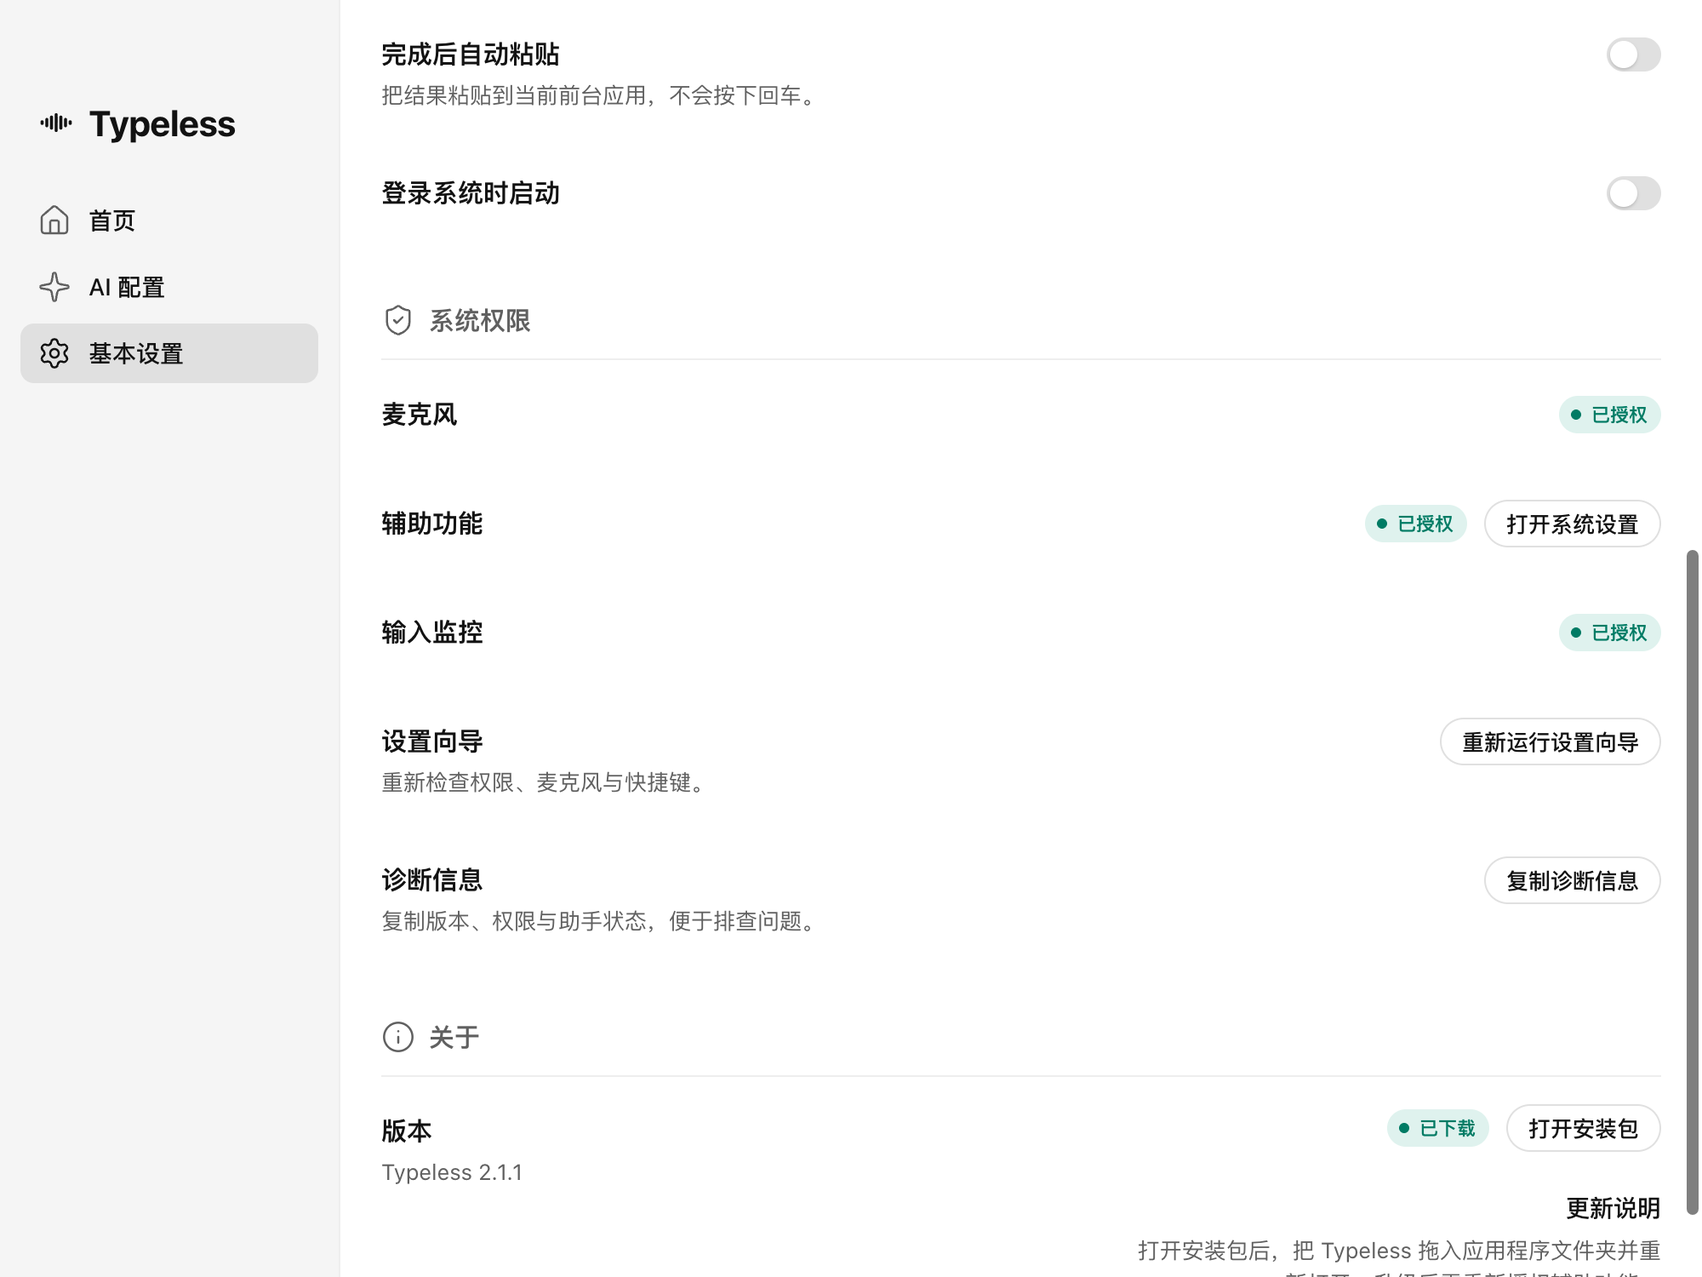
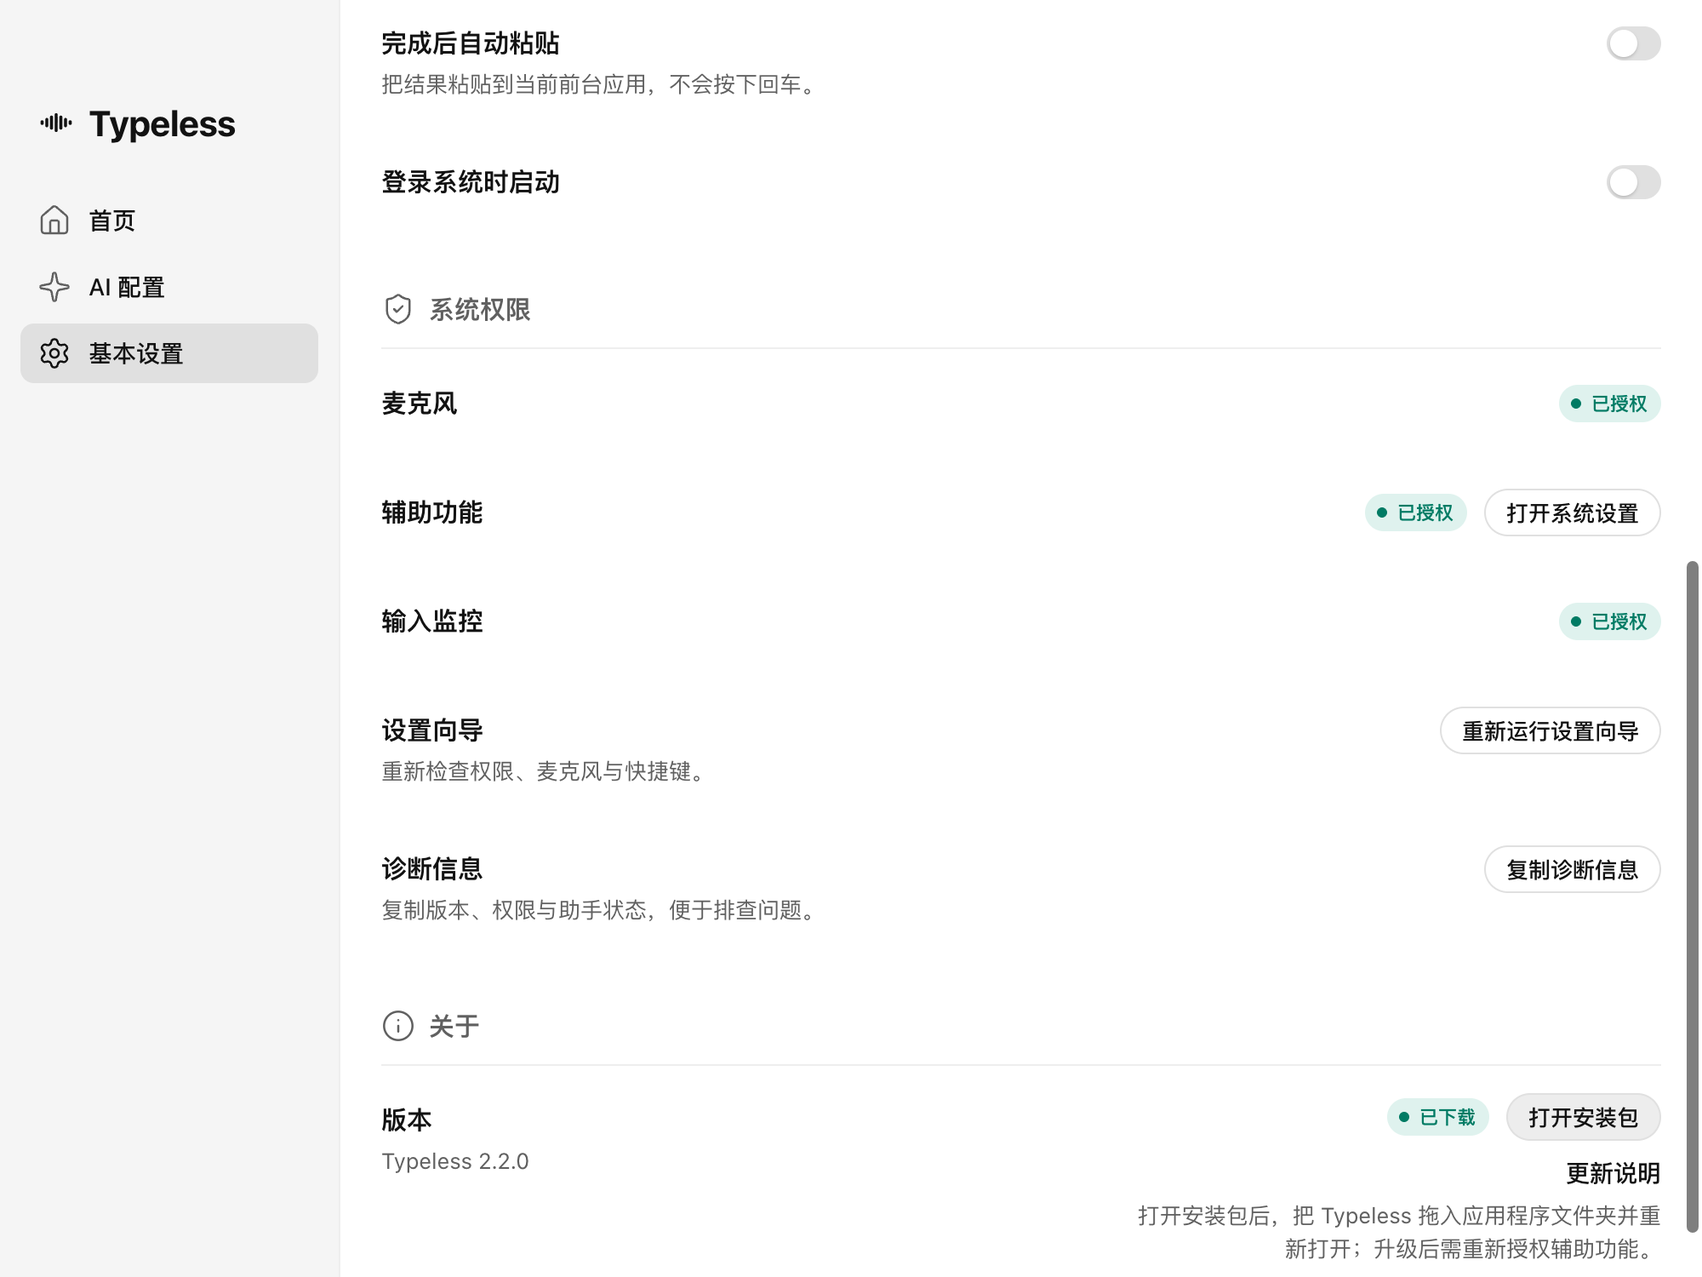
Keep the 关于 row notes under the controls; record the live release check; release 2.2.1
- Force the 更新说明 link and the install hint onto their own line
  under the status badge and button, as UI design 13.5 specifies;
  a short note had been rendering beside the button
- Verify the release check against the real GitHub endpoint after the
  repository became public: the packaged 2.2.0 build reported 已是最新
  automatically and on demand, and the 2.2.0 DMG download matched the
  published digest and the release file
- Use a generic checkout path in the README and VALIDATION reproduce
  steps; refresh the 基本设置 screenshot, which still showed 2.1.1
- Record the 2.2.1 verification: 109 unit tests, 39 desktop e2e checks
  and 5 delivery scenarios in development and from the mounted DMG

diff --git a/src/renderer/styles/preferences.css b/src/renderer/styles/preferences.css
@@ -18,7 +18,9 @@
 .setting-row .pref-hint { max-width: 620px; color: var(--text-secondary); }
 
 /* 关于 row: badge and button inline, notes below. */
-.setting-row.about-row .about-notes { display: flex; flex-direction: column; align-items: flex-end; gap: 6px; margin-top: 6px; }
+/* The notes always sit on their own line under the badge and button, never beside them. */
+.setting-row.about-row .row-status { flex-basis: 100%; margin-top: 0; }
+.setting-row.about-row .about-notes { display: flex; flex-direction: column; align-items: flex-end; gap: 6px; }
 .setting-row.about-row .about-notes .pref-hint { text-align: right; max-width: 420px; }
 
 /* Mirrors the setting-row stacking breakpoint in base.css. */
@@ -26,5 +28,7 @@
   .setting-row .pref-status { align-items: flex-start; }
   .setting-row .pref-shortcut-status { justify-content: flex-start; }
   .setting-row.pref-switch-row .row-control.inline { justify-content: flex-start; }
+  .setting-row.about-row .about-notes { align-items: flex-start; }
+  .setting-row.about-row .about-notes .pref-hint { text-align: left; }
   .setting-row.pref-switch-row .row-status { text-align: left; }
 }

diff --git a/docs/VALIDATION.md b/docs/VALIDATION.md
@@ -1,6 +1,6 @@
-# Version 2.2.0 Validation
+# Version 2.2.1 Validation
 
-Reviewed on 2026-09-18 for 2.0.0 and revised on 2026-09-22 for the 2.1.1 packages (setup guide, stale-grant guidance) and again the same day for the 2.2.0 packages (white simplified interface, three destinations, release check). The 2.0.0 evidence in this section is kept for the dictation behaviour it qualifies; the interface it photographed has since been simplified as recorded in the 2.2.0 section below. This record covers the dictation product with the redesigned interface: the two-column shell specified in [UI design](UI_DESIGN.md) (**首页**, **AI 配置**, **基本设置**, **表达风格**), grouped setting rows, and the black voice capsule. Recording, ASR, optional polishing, retained clipboard output and optional paste into the current foreground application are unchanged from 0.1.5. Historical receipts for earlier versions remain in Git and do not qualify this version.
+Reviewed on 2026-09-18 for 2.0.0 and revised on 2026-09-22 for the 2.1.1 packages (setup guide, stale-grant guidance) and again the same day for the 2.2.0 packages (white simplified interface, three destinations, release check) and the 2.2.1 packages (关于 row note placement, live release check). The 2.0.0 evidence in this section is kept for the dictation behaviour it qualifies; the interface it photographed has since been simplified as recorded in the 2.2.0 section below. This record covers the dictation product with the redesigned interface: the two-column shell specified in [UI design](UI_DESIGN.md) (**首页**, **AI 配置**, **基本设置**, **表达风格**), grouped setting rows, and the black voice capsule. Recording, ASR, optional polishing, retained clipboard output and optional paste into the current foreground application are unchanged from 0.1.5. Historical receipts for earlier versions remain in Git and do not qualify this version.
 
 ## Current evidence
 
@@ -16,7 +16,7 @@ Reviewed on 2026-09-18 for 2.0.0 and revised on 2026-09-22 for the 2.1.1 package
 | Visual inspection | Screenshots below come from the passing development runs at 1000 × 750 and were compared against the official Typeless 2.0 assets catalogued in `docs/research/ui-official-*.md`. |
 | Final packages | Both 2.0.0 packages built and passed integrity checks; the mounted macOS runtime passed as recorded above; Windows runtime remains untested. |
 
-Current screenshots (fake audio and mock providers, refreshed from the 2.2.0 development run): [首页](screenshots/home.png), [首页 with result](screenshots/dictation-result.png), [原文 view](screenshots/dictation-original.png), [recovery alert](screenshots/dictation-recovery.png), [AI 配置](screenshots/settings-ai.png), [AI 配置 in the 不润色 state](screenshots/settings-ai-writing-none.png), [基本设置 with the 关于 row](screenshots/settings-basic.png), [capsule recording](screenshots/voice-recording.png), [capsule controls](screenshots/voice-recording-controls.png), [capsule processing](screenshots/voice-processing.png), [processing with cancel](screenshots/voice-processing-controls.png), [delivery target](screenshots/delivery-target.png).
+Current screenshots (fake audio and mock providers, refreshed from the 2.2.0 development run; 基本设置 from the 2.2.1 run): [首页](screenshots/home.png), [首页 with result](screenshots/dictation-result.png), [原文 view](screenshots/dictation-original.png), [recovery alert](screenshots/dictation-recovery.png), [AI 配置](screenshots/settings-ai.png), [AI 配置 in the 不润色 state](screenshots/settings-ai-writing-none.png), [基本设置 with the 关于 row](screenshots/settings-basic.png), [capsule recording](screenshots/voice-recording.png), [capsule controls](screenshots/voice-recording-controls.png), [capsule processing](screenshots/voice-processing.png), [processing with cancel](screenshots/voice-processing-controls.png), [delivery target](screenshots/delivery-target.png).
 
 Production keeps completed dictation on the clipboard. Optional native paste sends the platform paste shortcut to the current foreground application; it does not capture an original field or require an editable role. Dispatch is not proof of acceptance by arbitrary applications. No Return/Enter is sent. Tests restore the original clipboard only during ownership-guarded cleanup. Existing preferences and encrypted keys from 0.1.5 remain readable; the settings schema did not change at 2.0.0. The setup-guide change recorded below adds one field, `general.setupCompleted`.
 
@@ -64,22 +64,42 @@ Requested after 2.1.1 shipped and specified in [UI design](UI_DESIGN.md) section
 | Visual review | The lead compared the run's screenshots against section 13: white pages, borders instead of tinted cards, colour only on status badges and the meter, no gradient anywhere in the shell or the guide. |
 | Packaged macOS desktop integration | Application launched from the read-only mounted 2.2.0 DMG: the first attempt failed in the new update stage because the packaged app starts slower and its automatic release check (15 s after launch) had already turned **检查更新** into **下载更新** before the harness clicked it; the stage now triggers the manual check through IPC and asserts on the resulting states, and the rerun passed with **39 checks and 4 mock HTTP requests**, receipt [`.local/desktop-e2e-wUZd0I/result.json`](../.local/desktop-e2e-wUZd0I/result.json). This is the only run in which the automatic check was observed to fire. |
 | Packaged macOS delivery | Same mounted application: **5 scenarios passed**, clipboard restored, receipt [`.local/delivery-e2e-LYg72w/result.json`](../.local/delivery-e2e-LYg72w/result.json). |
+| Real GitHub endpoint (after publication) | Run on 2026-09-22 once Release v2.2.0 was public. While the repository was still private the unauthenticated `releases/latest` call returned 404 and the 关于 row would have shown **检查失败**; the repository was made public and the checks below were repeated. (1) `UpdateChecker` against the live API with the installed version 2.2.0 → `none`; with 2.1.1 as current version → `available` naming `Typeless-2.2.0-arm64.dmg` (darwin/arm64) and `Typeless-2.2.0-win.zip` (win32/x64); the arm64 download followed GitHub's redirect, finished in 20 s, passed the `sha256:` digest GitHub publishes, and the file was byte-identical to `release/Typeless-2.2.0-arm64.dmg` (`hdiutil verify` valid). (2) The packaged 2.2.0 application launched from `release/mac-arm64` with no update URL override: the automatic check reported **已是最新** 19 s after launch, the manual **检查更新** repeated it, and no sidebar pill appeared. Afterwards the 关于 row's notes (更新说明 and the hints) were forced onto their own line under the badge and button, as section 13.5 specifies, because a short note had been rendering beside the button; `npm run test:desktop` on the rebuilt source passed **39 checks with 4 mock HTTP requests**, receipt [`.local/desktop-e2e-7hJCLq/result.json`](../.local/desktop-e2e-7hJCLq/result.json), and its 基本设置 screenshot replaced the earlier one, which still showed 2.1.1. |
 
 ### Limits of this record
 
-- The release check was exercised only against the harness's loopback mock; the real GitHub endpoint, its rate limits, redirects to `objects.githubusercontent.com`, the automatic 15 s / 6 h schedule (packaged builds only) and `shell.openPath` on a real DMG were not observed by any run.
+- The live GitHub run above covered one check and one download from one machine; rate limiting, the 6 h repeat and `shell.openPath` on a real DMG from inside the application were not observed. The published 2.2.0 build does not contain the 关于 row note-placement fix; 2.2.1 does.
 - Only the darwin / arm64 asset rule was exercised end to end; `-x64.dmg` and `-win.zip` selection is unit-tested only.
 - The 关于 row states `downloading` and `error` were rendered only in the unit tests' state transitions, not photographed.
 - Windows runtime remains untested; the Windows install hint in the 关于 row was not shown on a Windows machine.
+
+## Note placement fix and live release check (2.2.1, 2026-09-22)
+
+Requested after the live GitHub verification recorded above. Source changes: `src/renderer/styles/preferences.css` forces the 关于 row notes (更新说明 and the hints) onto their own line under the badge and button, as [UI design](UI_DESIGN.md) section 13.5 specifies; the README build steps use a generic checkout path; the 基本设置 screenshot was refreshed; the version string is 2.2.1. Dictation, providers, settings storage, the setup guide and the release-check logic are unchanged.
+
+| Check | Result and scope |
+| --- | --- |
+| Source and build | `npm run typecheck` clean. `npm run build` completed its native, typecheck, Vite and esbuild steps. `native/bin/typeless-native --self-test` passed (`shortcut-and-paste-policy`). |
+| Automated regressions | `npm test`: **109 tests in 12 files passed** (unchanged from 2.2.0). |
+| Development desktop integration | `npm run test:desktop` on the final source: **39 checks passed with 4 mock HTTP requests**, receipt [`.local/desktop-e2e-02NFI7/result.json`](../.local/desktop-e2e-02NFI7/result.json). |
+| Development delivery | `npm run test:delivery` on the final source: **5 scenarios passed**, clipboard restored, receipt [`.local/delivery-e2e-WVsXvd/result.json`](../.local/delivery-e2e-WVsXvd/result.json). |
+| Packaged macOS desktop integration | Application launched from the read-only mounted 2.2.1 DMG: **39 checks passed with 4 mock HTTP requests**, receipt [`.local/desktop-e2e-FKw9O3/result.json`](../.local/desktop-e2e-FKw9O3/result.json). |
+| Packaged macOS delivery | Same mounted application: **5 scenarios passed**, clipboard restored, receipt [`.local/delivery-e2e-n8c1t1/result.json`](../.local/delivery-e2e-n8c1t1/result.json). |
+| Visual check | The 关于 row was photographed from the rebuilt renderer in the `none` state (更新说明 under 检查更新, right-aligned, after a live check) and in the `downloaded` state by the desktop run ([基本设置](screenshots/settings-basic.png)). |
+
+### Limits of this record
+
+- The 2.2.1 packages themselves were not pointed at the live GitHub endpoint; the live observations above used the packaged 2.2.0 build and checker code that did not change in 2.2.1. A 2.2.0 installation showing the 有新版本 2.2.1 pill after Release v2.2.1 is published has not been observed yet.
+- The 2.2.0 limits (asset rule coverage, unphotographed `downloading` / `error` states, Windows runtime) still apply.
 
 ## Artifact ledger
 
 | Artifact | Status | Bytes | SHA-256 |
 | --- | --- | ---: | --- |
[4 lines of base64/hex data omitted]
 
-The DMG passed `hdiutil verify`, read-only mounting and `codesign --verify --deep --strict` on both the unpacked and the mounted application. Its Applications link targets `/Applications`, its bundle reports version 2.2.0 and a minimum macOS of 13.0, and its `app.asar` is byte-identical between the unpacked and mounted copies. The bundled native helper shares UUID `20692AF1-EF68-3EC3-A489-D68F00254486` with the source build (unchanged since 2.1.1). The image was ejected after the runtime checks.
+The DMG passed `hdiutil verify`, read-only mounting and `codesign --verify --deep --strict` on both the unpacked and the mounted application. Its Applications link targets `/Applications`, its bundle reports version 2.2.1 and a minimum macOS of 13.0, and its `app.asar` is byte-identical between the unpacked and mounted copies. The bundled native helper shares UUID `20692AF1-EF68-3EC3-A489-D68F00254486` with the source build (unchanged since 2.1.1). The image was ejected after the runtime checks.
 
 The Windows ZIP passed `unzip -t`; `Typeless.exe` is present and unsigned; `resources/native/windows/Helper.cs` is byte-identical to the source file, and `resources/app.asar` is byte-identical to the macOS bundle's. macOS is ad-hoc signed without Developer ID or notarization. Windows is unsigned. [Release metadata](../release/artifacts.json) records the final artifacts and acceptance boundaries.
 
@@ -88,7 +108,7 @@ The Windows ZIP passed `unzip -t`; `Typeless.exe` is present and unsigned; `reso
 Run from the checkout with npm dependencies and host build tools installed. No real provider credentials are needed.
 
 ```sh
-cd /Users/junbingao/github/Typeless
+cd path/to/Typeless
 npm run typecheck
 npm test
 npm run build
@@ -101,18 +121,18 @@ npm run test:delivery
 Both Electron harnesses create isolated `.local/` profiles and use fake audio, mock loopback providers, synthetic keys and test-only credential encryption. They use real Electron IPC; the delivery harness additionally uses real native paste into its own disposable editor. Run GUI checks serially, with the desktop available. They do not grant OS permissions or send real messages.
 
 ```sh
-cd /Users/junbingao/github/Typeless
+cd path/to/Typeless
 npm run package:mac
 npm run package:win
-hdiutil verify release/Typeless-2.2.0-arm64.dmg
+hdiutil verify release/Typeless-2.2.1-arm64.dmg
 codesign --verify --deep --strict --verbose=2 release/mac-arm64/Typeless.app
-unzip -t release/Typeless-2.2.0-win.zip
-shasum -a 256 release/Typeless-2.2.0-arm64.dmg release/Typeless-2.2.0-win.zip
+unzip -t release/Typeless-2.2.1-win.zip
+shasum -a 256 release/Typeless-2.2.1-arm64.dmg release/Typeless-2.2.1-win.zip
 mkdir -p .cache/dmg-acceptance
-hdiutil attach -readonly -nobrowse -mountpoint .cache/dmg-acceptance release/Typeless-2.2.0-arm64.dmg
+hdiutil attach -readonly -nobrowse -mountpoint .cache/dmg-acceptance release/Typeless-2.2.1-arm64.dmg
 codesign --verify --deep --strict --verbose=2 .cache/dmg-acceptance/Typeless.app
-TYPELESS_EXECUTABLE="/Users/junbingao/github/Typeless/.cache/dmg-acceptance/Typeless.app/Contents/MacOS/Typeless" npm run test:desktop
-TYPELESS_EXECUTABLE="/Users/junbingao/github/Typeless/.cache/dmg-acceptance/Typeless.app/Contents/MacOS/Typeless" npm run test:delivery
+TYPELESS_EXECUTABLE="$PWD/.cache/dmg-acceptance/Typeless.app/Contents/MacOS/Typeless" npm run test:desktop
+TYPELESS_EXECUTABLE="$PWD/.cache/dmg-acceptance/Typeless.app/Contents/MacOS/Typeless" npm run test:delivery
 hdiutil detach .cache/dmg-acceptance
 ```
 

diff --git a/docs/PROPOSAL.md b/docs/PROPOSAL.md
@@ -1,6 +1,6 @@
 # Typeless: current product scope and implementation plan
 
-Date: 2026-09-18, revised 2026-09-22. Target version: 2.2.0. This document records the reduced product decision. Actual package availability and completed acceptance belong in [Validation](VALIDATION.md), not in this proposal.
+Date: 2026-09-18, revised 2026-09-22. Target version: 2.2.1. This document records the reduced product decision. Actual package availability and completed acceptance belong in [Validation](VALIDATION.md), not in this proposal.
 
 ## Product direction
 
@@ -94,6 +94,6 @@ Implementation and validation are separate. Required checks include:
 
 Unit and mock-provider Electron tests exercise contracts and application behavior. Native editor tests, physical shortcut tests, real microphones, live providers, Windows runtime and packaged installation are separate acceptance boundaries. Test scripts and proposed checks must not be reported as completed results until executed.
 
-Version 2.2.0 packaging targets macOS Apple silicon DMG and Windows x64 portable ZIP. Package builds do not imply signing, notarization, publication or platform-runtime acceptance. The application checks GitHub Releases for a newer version and downloads its installer on request, verifying the published digest; it never replaces itself, because ad-hoc signed builds must be reinstalled and re-authorized by hand. The [README](../README.md) supplies commands and output paths; [Validation](VALIDATION.md) records the evidence.
+Version 2.2.1 packaging targets macOS Apple silicon DMG and Windows x64 portable ZIP. Package builds do not imply signing, notarization, publication or platform-runtime acceptance. The application checks GitHub Releases for a newer version and downloads its installer on request, verifying the published digest; it never replaces itself, because ad-hoc signed builds must be reinstalled and re-authorized by hand. The [README](../README.md) supplies commands and output paths; [Validation](VALIDATION.md) records the evidence.
 
 Provider cost is the chosen ASR usage plus the selected text model's input/output usage when polishing is enabled. No fixed price or latency is promised. Direct provider access requires no application-hosting backend.

diff --git a/docs/USER_GUIDE.md b/docs/USER_GUIDE.md
@@ -4,7 +4,7 @@ This guide describes the reduced dictation interface. UI labels are shown in Chi
 
 ## Open the application
 
-The 2.2.0 package output locations are [Typeless-2.2.0-arm64.dmg](../release/Typeless-2.2.0-arm64.dmg) for Apple silicon macOS and [Typeless-2.2.0-win.zip](../release/Typeless-2.2.0-win.zip) for Windows x64. Consult Validation for availability and verification. On macOS, quit any existing instance, drag `Typeless.app` into Applications, eject the disk image, and launch the installed app. The local build is ad-hoc signed, not Developer ID signed or notarized. On Windows, extract the entire portable archive and run `Typeless.exe` with its companion files intact.
+The 2.2.1 package output locations are [Typeless-2.2.1-arm64.dmg](../release/Typeless-2.2.1-arm64.dmg) for Apple silicon macOS and [Typeless-2.2.1-win.zip](../release/Typeless-2.2.1-win.zip) for Windows x64. Consult Validation for availability and verification. On macOS, quit any existing instance, drag `Typeless.app` into Applications, eject the disk image, and launch the installed app. The local build is ad-hoc signed, not Developer ID signed or notarized. On Windows, extract the entire portable archive and run `Typeless.exe` with its companion files intact.
 
 From source, run `npm ci`, `npm run build`, then `npm start` in the checkout. The first run contains no API keys.
 

diff --git a/README.md b/README.md
@@ -47,7 +47,7 @@ The result card on **首页** offers **整理后** and **原文** views with a c
 Use Node.js supported by the locked dependencies and npm. macOS native builds require Xcode Command Line Tools. From this checkout:
 
 ```sh
-cd /Users/junbingao/github/Typeless
+cd path/to/Typeless
 npm ci
 npm run build
 npm start
@@ -70,10 +70,10 @@ Build before desktop tests. `test:desktop` exercises real Electron IPC, configur
 
 ## Packaging
 
-The 2.2.0 build targets are:
+The 2.2.1 build targets are:
 
-- macOS Apple silicon: [Typeless-2.2.0-arm64.dmg](release/Typeless-2.2.0-arm64.dmg), with the unpacked [Typeless.app](release/mac-arm64/Typeless.app).
-- Windows x64 portable: [Typeless-2.2.0-win.zip](release/Typeless-2.2.0-win.zip).
+- macOS Apple silicon: [Typeless-2.2.1-arm64.dmg](release/Typeless-2.2.1-arm64.dmg), with the unpacked [Typeless.app](release/mac-arm64/Typeless.app).
+- Windows x64 portable: [Typeless-2.2.1-win.zip](release/Typeless-2.2.1-win.zip).
 
 These are output locations, not release or acceptance claims. Consult [Validation](docs/VALIDATION.md) for the artifacts actually built and checked.
 
